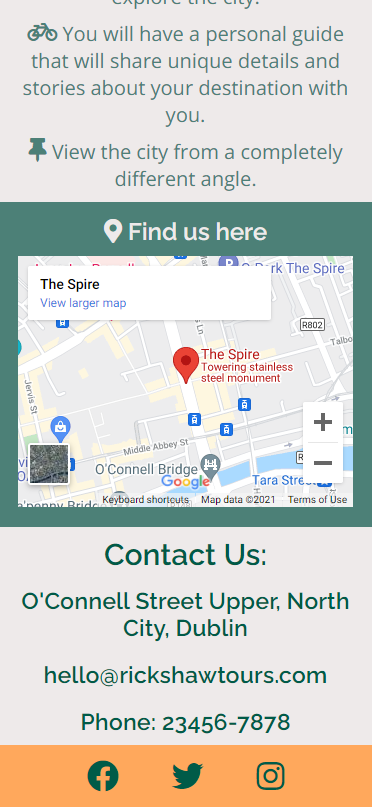
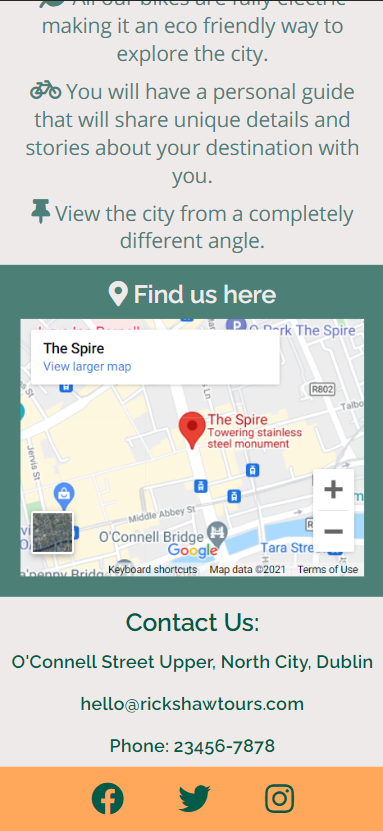
Add style to contact section. Update home img on README

diff --git a/assets/css/style.css b/assets/css/style.css
@@ -176,6 +176,14 @@ i {
     background-color: #EEEAEA;
 }
 
+#contact h2 {
+    font-size: 24px;
+}
+
+#contact h3 {
+    font-size: 18px;
+}
+
 /* footer */
 
 footer {
